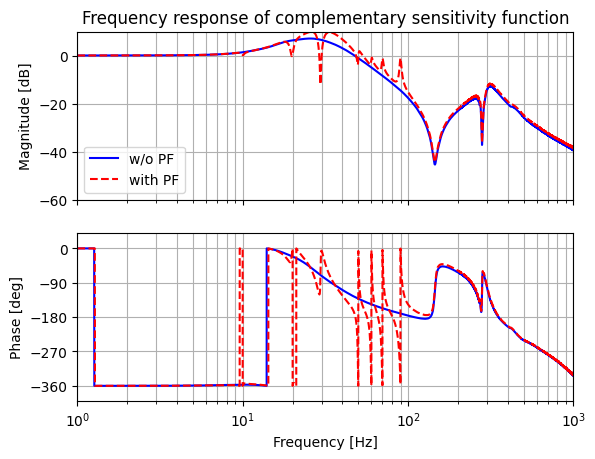
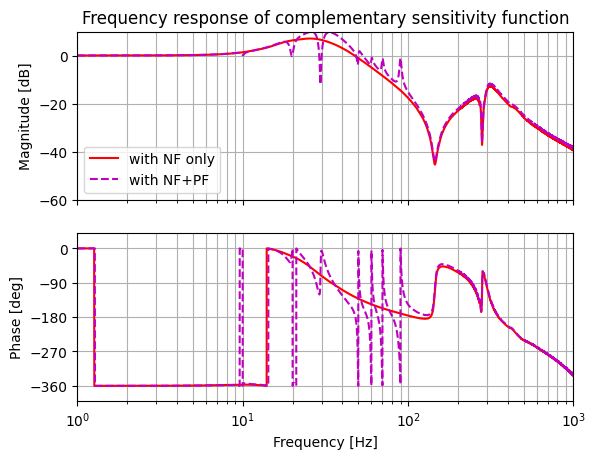
v-0.1.12

diff --git a/experiment/Run_pf_2mass_exp.py b/experiment/Run_pf_2mass_exp.py
@@ -136,37 +136,37 @@ ax1 = fig.add_subplot(311)
 ax2 = fig.add_subplot(312)
 ax3 = fig.add_subplot(313)
 plot.plot_xy(ax1, time, RefPosUm*1.0e-3, '-', 'b', 1.5, 1.0, ylabel='Ref Pos [mm]', title='Time response')
-plot.plot_xy(ax2, time, ErrPosUm, '-', 'b', 1.5, 1.0)
-plot.plot_xy(ax2, time_pf, ErrPosUm_pf, '--', 'r', 1.5, 1.0, yrange=[-1.0, 1.0], ylabel='Error Pos [um]')
-plot.plot_xy(ax3, time, ServoOutN, '-', 'b', 1.5, 1.0)
-plot.plot_xy(ax3, time_pf, ServoOutN_pf, '--', 'r', 1.5, 1.0, xlabel='Time [s]', ylabel='ServoOut [N]', legend=['w/o PF', 'with PF'])
+plot.plot_xy(ax2, time, ErrPosUm, '-', 'r', 1.5, 1.0)
+plot.plot_xy(ax2, time_pf, ErrPosUm_pf, '--', 'm', 1.5, 1.0, yrange=[-1.0, 1.0], ylabel='Error Pos [um]')
+plot.plot_xy(ax3, time, ServoOutN, '-', 'r', 1.5, 1.0)
+plot.plot_xy(ax3, time_pf, ServoOutN_pf, '--', 'm', 1.5, 1.0, xlabel='Time [s]', ylabel='ServoOut [N]', legend=['with NF only', 'with NF+PF'])
 plot.savefig(figurefolderName+'/time_resp.png')
 
 # FFT
 fig = plot.makefig()
 ax1 = fig.add_subplot(111)
-plot.plot_xy(ax1, freq_fft, ErrPosUm_fft, '-', 'b', 1.5, 1.0, title='Power spectrum density')
-plot.plot_xy(ax1, freq_fft_pf, ErrPosUm_fft_pf, '--', 'r', 1.5, 1.0, xscale='log', xrange=[1.0, 1000.0], yrange=[0.0, 0.2], xlabel='Frequency [Hz]', ylabel='Error Pos [um]', legend=['w/o PF', 'with PF'])
+plot.plot_xy(ax1, freq_fft, ErrPosUm_fft, '-', 'r', 1.5, 1.0, title='Power spectrum density')
+plot.plot_xy(ax1, freq_fft_pf, ErrPosUm_fft_pf, '--', 'm', 1.5, 1.0, xscale='log', xrange=[1.0, 1000.0], yrange=[0.0, 0.2], xlabel='Frequency [Hz]', ylabel='Error Pos [um]', legend=['with NF only', 'with NF+PF'])
 plot.savefig(figurefolderName+'/time_fft.png')
 
 # Time response
 fig = plot.makefig()
 ax1 = fig.add_subplot(211)
 ax2 = fig.add_subplot(212)
-plot.plot_xy(ax1, time, ErrPosUm, '-', 'b', 1.5, 1.0)
-plot.plot_xy(ax1, time_pf, ErrPosUm_pf, '--', 'r', 1.5, 1.0, yrange=[-1.0, 1.0], ylabel='Error Pos [um]', legend=['w/o PF (Exp)', 'with PF (Exp)'], loc='upper right', title='Time response')
-plot.plot_xy(ax2, time, ErrPosUm, '-', 'b', 1.5, 1.0)
-plot.plot_xy(ax2, time_sim, ErrPosUm_pf_sim, '--', 'r', 1.5, 1.0, yrange=[-1.0, 1.0], xlabel='Time [s]', ylabel='Error Pos [um]', legend=['w/o PF (Exp)', 'with PF (Sim)'], loc='upper right')
+plot.plot_xy(ax1, time, ErrPosUm, '-', 'r', 1.5, 1.0)
+plot.plot_xy(ax1, time_pf, ErrPosUm_pf, '--', 'm', 1.5, 1.0, yrange=[-1.0, 1.0], ylabel='Error Pos [um]', legend=['w/o PF (Exp)', 'with PF (Exp)'], loc='upper right', title='Time response')
+plot.plot_xy(ax2, time, ErrPosUm, '-', 'r', 1.5, 1.0)
+plot.plot_xy(ax2, time_sim, ErrPosUm_pf_sim, '--', 'm', 1.5, 1.0, yrange=[-1.0, 1.0], xlabel='Time [s]', ylabel='Error Pos [um]', legend=['w/o PF (Exp)', 'with PF (Sim)'], loc='upper right')
 plot.savefig(figurefolderName+'/time_resp_vs_sim.png')
 
 # FFT
 fig = plot.makefig()
 ax1 = fig.add_subplot(211)
 ax2 = fig.add_subplot(212)
-plot.plot_xy(ax1, freq_fft, ErrPosUm_fft, '-', 'b', 1.5, 1.0, title='Power spectrum density')
-plot.plot_xy(ax1, freq_fft_pf, ErrPosUm_fft_pf, '--', 'r', 1.5, 1.0, xscale='log', xrange=[1.0, 1000.0], yrange=[0.0, 0.2], ylabel='Error Pos [um]', legend=['w/o PF (Exp)', 'with PF (Exp)'])
-plot.plot_xy(ax2, freq_fft, ErrPosUm_fft, '-', 'b', 1.5, 1.0)
-plot.plot_xy(ax2, freq_fft_sim, ErrPosUm_fft_pf_sim, '--', 'r', 1.5, 1.0, xscale='log', xrange=[1.0, 1000.0], yrange=[0.0, 0.2], xlabel='Frequency [Hz]', ylabel='Error Pos [um]', legend=['w/o PF (Exp)', 'with PF (Sim)'])
+plot.plot_xy(ax1, freq_fft, ErrPosUm_fft, '-', 'r', 1.5, 1.0, title='Power spectrum density')
+plot.plot_xy(ax1, freq_fft_pf, ErrPosUm_fft_pf, '--', 'm', 1.5, 1.0, xscale='log', xrange=[1.0, 1000.0], yrange=[0.0, 0.2], ylabel='Error Pos [um]', legend=['w/o PF (Exp)', 'with PF (Exp)'])
+plot.plot_xy(ax2, freq_fft, ErrPosUm_fft, '-', 'r', 1.5, 1.0)
+plot.plot_xy(ax2, freq_fft_sim, ErrPosUm_fft_pf_sim, '--', 'm', 1.5, 1.0, xscale='log', xrange=[1.0, 1000.0], yrange=[0.0, 0.2], xlabel='Frequency [Hz]', ylabel='Error Pos [um]', legend=['w/o PF (Exp)', 'with PF (Sim)'])
 plot.savefig(figurefolderName+'/time_fft_vs_sim.png')
 
 # Plant
@@ -189,31 +189,31 @@ plot.savefig(figurefolderName+'/freq_C.png')
 fig = plot.makefig()
 ax_mag = fig.add_subplot(211)
 ax_phase = fig.add_subplot(212)
-plot.plot_tffrd(ax_mag, ax_phase, Gn_frd, '-', 'b', 1.5, 1.0, title='Frequency response of open loop transfer function')
-plot.plot_tffrd(ax_mag, ax_phase, G_frd, '--', 'r', 1.5, 1.0, freqrange, legend=['w/o PF', 'with PF'])
+plot.plot_tffrd(ax_mag, ax_phase, Gn_frd, '-', 'r', 1.5, 1.0, title='Frequency response of open loop transfer function')
+plot.plot_tffrd(ax_mag, ax_phase, G_frd, '--', 'm', 1.5, 1.0, freqrange, legend=['with NF only', 'with NF+PF'])
 plot.savefig(figurefolderName+'/freq_G.png')
 
 # Sensitivity function
 fig = plot.makefig()
 ax_mag = fig.add_subplot(111)
 ax_phase = None
-plot.plot_tffrd(ax_mag, ax_phase, Sn_frd, '-', 'b', 1.5, 1.0, title='Frequency response of sensitivity function')
-plot.plot_tffrd(ax_mag, ax_phase, S_frd, '--', 'r', 1.5, 1.0, freqrange, [-60, 10], legend=['w/o PF', 'with PF'])
+plot.plot_tffrd(ax_mag, ax_phase, Sn_frd, '-', 'r', 1.5, 1.0, title='Frequency response of sensitivity function')
+plot.plot_tffrd(ax_mag, ax_phase, S_frd, '--', 'm', 1.5, 1.0, freqrange, [-60, 10], legend=['with NF only', 'with NF+PF'])
 plot.savefig(figurefolderName+'/freq_S.png')
 
 # Complementary sensitivity function
 fig = plot.makefig()
 ax_mag = fig.add_subplot(211)
 ax_phase = fig.add_subplot(212)
-plot.plot_tffrd(ax_mag, ax_phase, Tn_frd, '-', 'b', 1.5, 1.0, title='Frequency response of complementary sensitivity function')
-plot.plot_tffrd(ax_mag, ax_phase, T_frd, '--', 'r', 1.5, 1.0, freqrange, [-60, 10], legend=['w/o PF', 'with PF'])
+plot.plot_tffrd(ax_mag, ax_phase, Tn_frd, '-', 'r', 1.5, 1.0, title='Frequency response of complementary sensitivity function')
+plot.plot_tffrd(ax_mag, ax_phase, T_frd, '--', 'm', 1.5, 1.0, freqrange, [-60, 10], legend=['with NF only', 'with NF+PF'])
 plot.savefig(figurefolderName+'/freq_T.png')
 
 # Nyquist
 fig = plot.makefig()
 ax = fig.add_subplot(111)
-plot.plot_nyquist(ax, Gn_frd, '-', 'b', 1.5, 1.0, title='Nyquist diagram')
-plot.plot_nyquist(ax, G_frd, '--', 'r', 1.5, 1.0, legend=['w/o PF', 'with PF'])
+plot.plot_nyquist(ax, Gn_frd, '-', 'r', 1.5, 1.0, title='Nyquist diagram')
+plot.plot_nyquist(ax, G_frd, '--', 'm', 1.5, 1.0, legend=['with NF only', 'with NF+PF'])
 plot.plot_nyquist_assistline(ax)
 plot.savefig(figurefolderName+'/nyquist.png')
 
